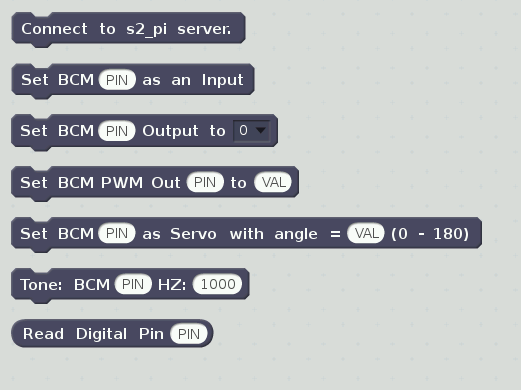
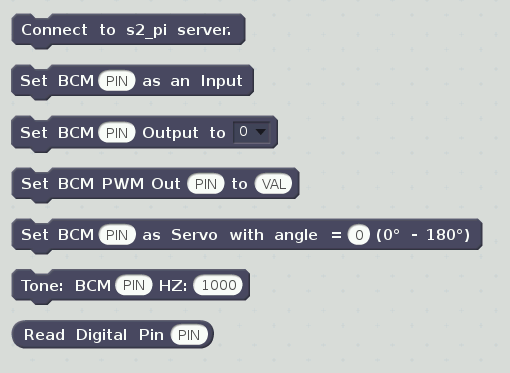
version 1.11

Changed region(s): [[0.0, 0.0295, 0.9706, 0.9437]]

diff --git a/docs/index.md b/docs/index.md
@@ -8,7 +8,8 @@ Extensions<br>On Your Raspberry Pi</span></center>
 <br><br>
 # Introduction
 
-The [latest Raspbian image](https://www.raspberrypi.org/downloads/raspbian/) (2018-10-09) includes an
+The [latest Raspbian image](https://www.raspberrypi.org/downloads/raspbian/) (2018-10-09) as of this writing,
+ includes an
 offline version of the Scratch 2 editor. It is based on Scratchx, a version of Scratch 2 that
 supports Scratch 2 extensions. The previous *Jessie* version of Raspbian is also compatible
 with s2-pi.
@@ -77,6 +78,17 @@ The function of these blocks can be summarized as follows:
 
 ## Installing s2-pi
 
+The preferred installation method is to use the *pip tool*. To install using *pip* open a
+terminal window and type:
+
+```
+sudo pip3 install s2-pi
+
+```
+
+You can also install s2-pi by downloading the code from Github.
+
+Here is how to use this alternative method:
 
 Download the code from [Github](https://github.com/MrYsLab/s2-pi)
 
@@ -465,7 +477,7 @@ blocks descriptors that s2-pi uses.
             [" ", 'Set BCM %n as an Input', 'input','PIN'],
             [" ", "Set BCM %n Output to %m.high_low", "digital_write", "PIN", "0"],
             [" ", "Set BCM PWM Out %n to %n", "analog_write", "PIN", "VAL"],
-			[" ", "Set BCM %n as Servo with angle = %n (0 - 180)", "servo", "PIN", "VAL"],     // ***Hackeduca --> Block for Servo
+			[" ", "Set BCM %n as Servo with angle = %n (0° - 180°)", "servo", "PIN", "0"],     // ***Hackeduca --> Block for Servo
             [" ", "Tone: BCM %n HZ: %n", "play_tone", "PIN", 1000],
             ["r", "Read Digital Pin %n", "digital_read", "PIN"]
 
